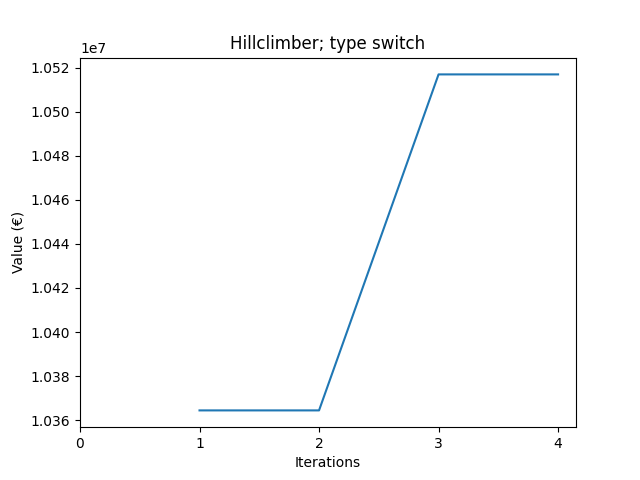
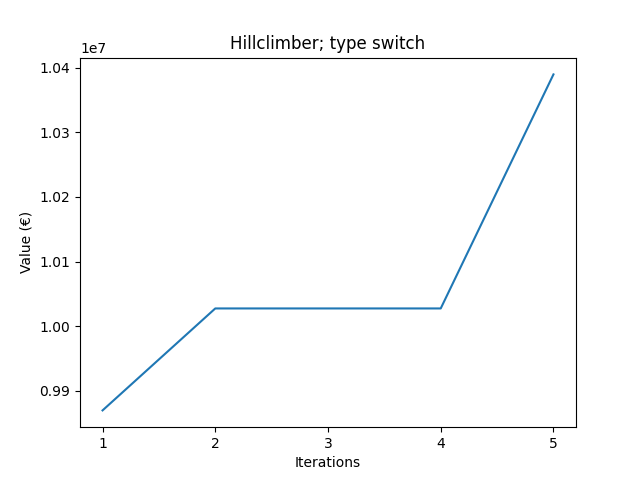
Added aanpak van algoritmen to readme

diff --git a/code/visualization/visualize.py b/code/visualization/visualize.py
@@ -15,13 +15,12 @@ from matplotlib.collections import PatchCollection
 
 def hist_plot(values, map_name, quantity, name):
     """
-    Creates a histogram that represents the total value of a map in relation to
-    the number of times an algorithm has been run. (?)
+    Creates a histogram that shows the distribution of the values of all created
+    maps.
     """
     
     fig, ax = plt.subplots()
     q_iterations = len(values)
-
     plt.title(f"{name.capitalize()}: {q_iterations} iterations")
     plt.xlabel("Value (€)")
     plt.ylabel("Frequency")
@@ -41,8 +40,8 @@ def hist_plot(values, map_name, quantity, name):
 
 def iteration_plot(values, map_name, quantity, hc_type, start_state):
     """
-    Creates a plot that shows how the value of a map is distributed across
-    the development of grid value over iterations. (?)
+    Creates a plot that shows how the map value develops per iteration of an
+    algorithm.
     """
 
     fig, ax = plt.subplots()
@@ -55,7 +54,7 @@ def iteration_plot(values, map_name, quantity, hc_type, start_state):
 
      # Draw plot based on passed on results and iterations
     plt.plot(iterations, values)
-    plt.xticks(np.arange(0, q_iterations +1, int(0.25*q_iterations)))
+    plt.xticks(np.arange(1, q_iterations +1, int(0.25*q_iterations)))
 
     path = os.path.join(".","data", "output", f"{map_name}", f"{quantity}", "figures", "analysis")
 

diff --git a/main.py b/main.py
@@ -160,7 +160,7 @@ def implement_hill_climber(grid, map_name, quantity, start_state, hc_type, extra
 
 	# Run hill climber	
 	hillclimber = hc.HillClimber(starting_grid)
-	hillclimber.run(iterations=2000, hc_type=hc_type)
+	hillclimber.run(iterations=5, hc_type=hc_type)
 
 	# Create histogram of all results
 	vis.iteration_plot(hillclimber.all_values, map_name, quantity, hc_type, start_state)

diff --git a/README.md b/README.md
@@ -4,6 +4,12 @@ Dicht bij Ouderkerk aan de Amstel wordt een nieuwe wijk gebouwd. De wijk zal bes
 -  De verplichte vrijstand moet binnen de kaart vallen. Dit geldt niet voor extra vrijstand. 
 Het doel van het probleem is om een valide indeling van de wijk te vinden die een zo hoog mogelijke waarde oplevert. 
 
+## Algoritmen
+**Randomize**: Randomize plaatst alle woningen op willekeurige geldige plekken op de kaart. Voor elke woning wordt willekeurig bepaald of hij horizontaal of verticaal wordt neergezet. Bovendien worden eerst de maisons, vervolgens de bungalows en pas aan het einde de eengezinswoningen geplaatst. Deze heuristiek is bedoelt om de grotere woningen die meer verbetering per extra meter vrijstand opleveren de meeste vrijstand toe te kennen.
+**Greedy**: Greedy gaat voor elke woning alle mogelijke plekken af en bereknt de bijhorende waarde. De woning wordt uiteindelijk op de plek geplaatst waar de waarde van de kaart hoger is dan op alle andere geldige plekken voor deze woning. We hebben twee typen van Greedy toegepast die verschillen in de manier op die de eerste woning wordt geplaatst. "Random Greedy" plaatst de eerste woning op een willekeurige geldige plek op de kaart. "Strategy Greedy" probeert de eerste woning in één van de hoeken van de kaart te plaatsen. Deze heuristiek zorgt ervoor dat de volledige grootte van de kaart benut wordt. Wanneer het plaatsen in een hoek verband met het water niet mogelijk is, wordt de eerste woning random geplaatst. In ieder geval plaatst greedy de woningen van grrot naar klein en houdt dus de heuristiek bij die al in randomize wordt ingezet. 
+**HillClimber**: HillClimber neemt een
+valide oplossing geproduceerd door een van de andere algoritmes (randomize of greedy) en maakt voor een bepaalde aantal iteraties een kleine aanpassing. Als de aanpassing de waarde van de kaart verbetert wordt hij opgeslaan, anders verworpen. In het geval van de eerste type HillClimber, "switch", is een aanpassing gelijk aan het verwisselen van twee willekeurig gekozenen woningen met verschillende types. De tweede type HillClimber, "rotation", probeert bij elke aanpassing de een willekeurig gekozen woning to draaien, ofwel van horizontaal naar vertical of andersom. De HillClimber runt in principe 2000 iteraties, tenzij er na 200 iteraties geen verbetering heeft plaatsgevonden. 
+
 ## Vereisten
 De codebase is geschreven in Python 3.7. Benodigde packages voor het runnen van de code staan vermeld in requirement.txt. Deze kunnen in één keer worden geinstalleerd aan de hand van het volgende command:
 
